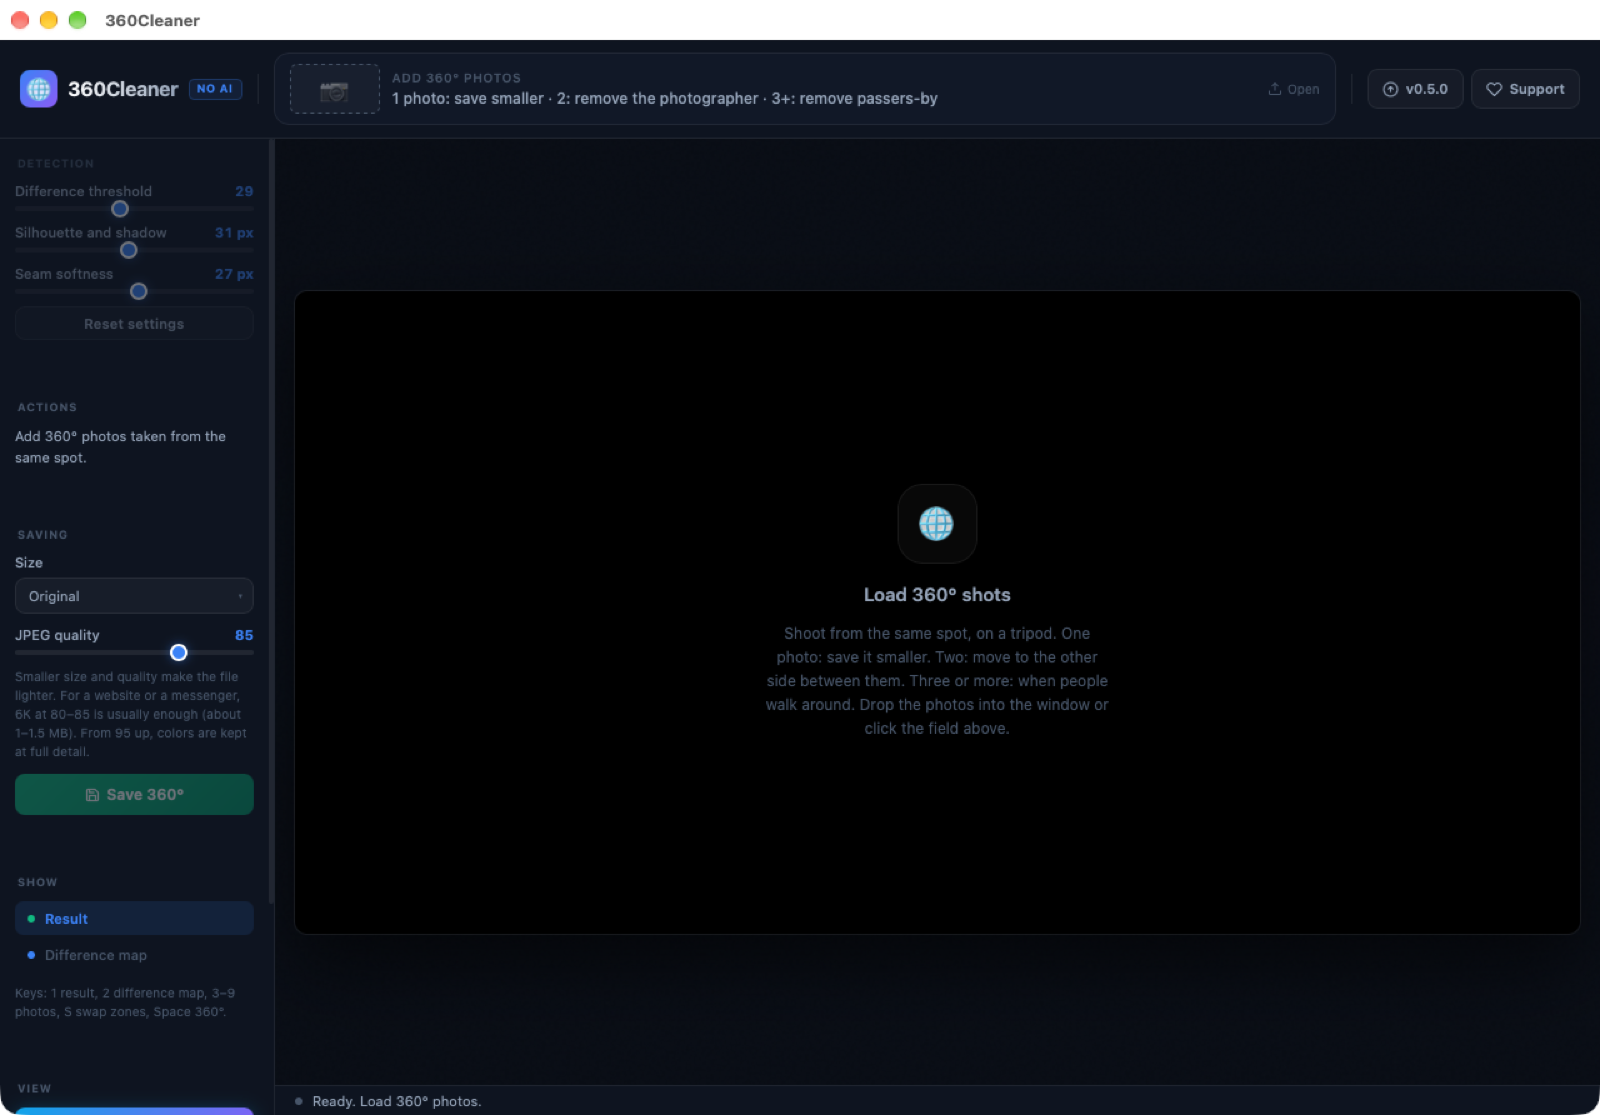
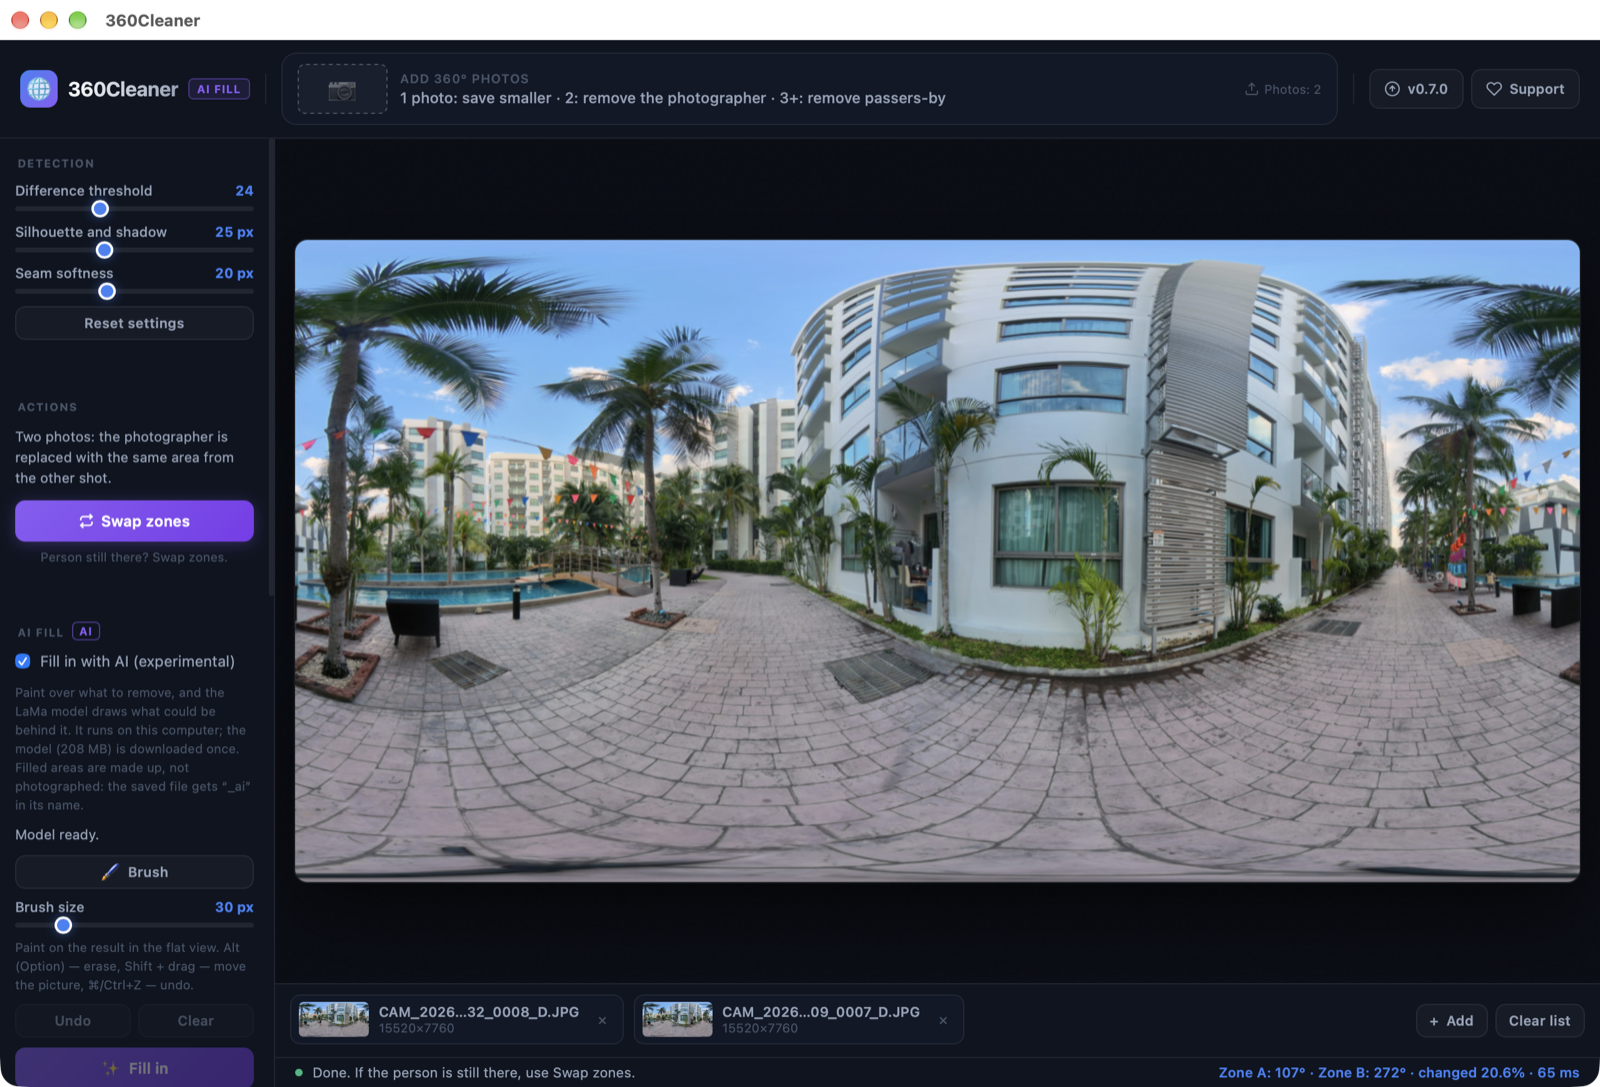
Release 0.7.0
- Version 0.7.0, release notes in English and Russian: AI fill, two photos
  cleaned in one pass more often, macOS 13.4 now required (with a warning not
  to update on an older macOS: the updater can't bring the old copy back when
  the new one simply won't start).
- README (en/ru/th): AI fill for a single photo in the modes table, an AI fill
  step in "How to shoot", a note that AI fill is untested on real Windows, and a
  new window screenshot (v0.7.0, AI fill section).
- CLAUDE.md: the updater limitation.

diff --git a/docs/releases/v0.7.0.md b/docs/releases/v0.7.0.md
@@ -1,0 +1,46 @@
+## What's new
+
+- **⚠ Mac: macOS 13.4 or newer is now required.** On an older macOS don't install this update: the new version
+  won't start, and the old one will already be replaced. Check it in the Apple menu → About This Mac.
+- **AI fill (optional, off by default).** For what the shots can't fix: a single photo, someone standing in the same
+  place on every shot, a tripod leg. Turn on **Fill in with AI** in the new **AI fill** section, paint over what to
+  remove with the **Brush** (key B) and press **Fill in**: the LaMa model draws what could be behind it.
+  It runs on your computer; the model (208 MB) is downloaded once when you turn the mode on. Filled areas are made
+  up, not photographed: they are marked in the window, the saved file gets `_ai` in its name, and the header badge
+  reads "AI fill" instead of "No AI" while the mode is on. A large area (a person right next to the camera) comes
+  out softer than the rest of an 8K panorama.
+- **Two photos: cleaned in one pass more often.** The border between the two zones now keeps clear of people, so
+  nobody is cut in half, and the zones are found from strong differences only, so noise and exposure changes don't
+  move them. If the difference threshold is so low that noise covers the frame, it is raised automatically and the
+  status bar says to what value.
+
+## Что нового
+
+- **⚠ Mac: теперь нужна macOS 13.4 или новее.** На более старой macOS не ставьте это обновление: новая версия не
+  запустится, а старая уже будет заменена. Версию системы видно в меню Apple → «Об этом Mac».
+- **ИИ-дорисовка (по желанию, по умолчанию выключена).** Для того, что кадрами не исправить: фото всего одно,
+  человек стоит на одном месте на всех кадрах, видна нога штатива. Включите «Дорисовывать ИИ» в новом разделе
+  «ИИ-дорисовка», закрасьте **кистью** (клавиша B), что убрать, и нажмите «Дорисовать» — модель LaMa
+  дорисует, что могло быть за ним. Всё считается на вашем компьютере; модель (208 МБ) скачивается один раз при
+  включении режима. Дорисованное — выдумка модели, а не снимок: такие места отмечены в окне, в имени сохранённого
+  файла будет `_ai`, а значок в шапке, пока режим включён, — «AI fill» вместо «No AI». Большое место (человек
+  вплотную к камере) выходит мягче остальной 8K-панорамы.
+- **Два фото: чаще чисто с первого раза.** Граница между зонами теперь обходит людей и не режет человека пополам, а
+  зоны ищутся только по сильным различиям — шум и разница экспозиции их не сдвигают. Если порог различий так низок,
+  что шум покрывает кадр, он поднимается сам, и строка состояния показывает, до какого значения.
+
+## Installation
+
+- Mac: **macOS 13.4 or newer is now required.** Download `360Cleaner-macOS-v0.7.0.dmg` and drag the app to
+  Applications. The `…-macos-arm64.zip` file is for in-app updates. The app isn't signed with an Apple
+  certificate, so macOS blocks the first launch: click **Done**, open **System Settings → Privacy & Security** and click **Open Anyway**.
+- Windows: unzip `360Cleaner-0.7.0-windows-x64.zip` and run `360Cleaner.exe` (SmartScreen: **More info** →
+  **Run anyway**). AI fill hasn't been tried on a real Windows machine yet.
+
+## Установка
+
+- Mac: **теперь нужна macOS 13.4 или новее.** `360Cleaner-macOS-v0.7.0.dmg`, перетащите приложение в «Программы».
+  Файл `…-macos-arm64.zip` — для обновления из программы. Приложение не подписано сертификатом Apple: при первом запуске нажмите «Готово»,
+  откройте «Системные настройки → Конфиденциальность и безопасность» и нажмите «Всё равно открыть».
+- Windows: распакуйте `360Cleaner-0.7.0-windows-x64.zip` и запустите `360Cleaner.exe` (SmartScreen: «Подробнее» →
+  «Выполнить в любом случае»). ИИ-дорисовку в Windows на настоящем компьютере ещё не проверяли.

diff --git a/README.th.md b/README.th.md
@@ -28,7 +28,7 @@
 
 | ภาพ | โหมด | ผลลัพธ์ |
 | :---: | :--- | :--- |
-| **1** | บันทึกใหม่ | ไม่มีอะไรต้องลบ: บันทึกพาโนรามาใหม่ตามขนาดและคุณภาพที่เลือก |
+| **1** | บันทึกใหม่ | ไม่มีอะไรต้องลบ: บันทึกพาโนรามาใหม่ตามขนาดและคุณภาพที่เลือก ถ้าเปิด [AI fill](#-ai-fill-ไม่บังคับ) จะระบายลบช่างภาพออกได้ |
 | **2** | ช่างภาพ | ในสองภาพคุณยืนคนละฝั่ง แต่ละจุดจะนำมาจากภาพที่ไม่มีคุณอยู่ |
 | **3+** | คนเดินผ่าน | สำหรับที่ที่มีคนเยอะ: แต่ละบริเวณจะนำมาจากภาพที่ตรงนั้นไม่มีใคร |
 
@@ -72,7 +72,8 @@
 3. **ลากภาพ** ลงในหน้าต่าง (ทั้งหมดพร้อมกัน) หรือคลิกช่องด้านบน ภาพจะแสดงในรายการด้านล่าง: คลิกเพื่อดูภาพ
    ✕ เพื่อเอาภาพออก **Clear list** เพื่อเอาออกทั้งหมด
 4. กรณีสองภาพ: ถ้ายังเห็นตัวคุณอยู่ ให้กด **Swap zones** (ปุ่ม <kbd>S</kbd>)
-5. เลือก **รูปแบบ** **ขนาด** และ **คุณภาพ** แล้วกด **Save 360°**
+5. ยังเหลือสิ่งที่ไม่มีในภาพใดเลย (มีภาพเดียว หรือเห็นขาตั้งกล้อง)? เปิด [AI fill](#-ai-fill-ไม่บังคับ) แล้วระบายทับ
+6. เลือก **รูปแบบ** **ขนาด** และ **คุณภาพ** แล้วกด **Save 360°**
 
 > [!TIP]
 > ได้ผลดีที่สุดเมื่อระหว่างภาพมีแค่คนที่เปลี่ยนไป: ค่าแสงคงที่ (โหมดแมนนวล) และไม่มีลม
@@ -123,7 +124,7 @@
 
 ทุกอย่างทำงานบนคอมพิวเตอร์ของคุณ ภาพไม่ถูกส่งไปไหน สิ่งที่โมเดลวาดเป็นของที่สร้างขึ้น ไม่ใช่ภาพถ่ายจริง: บริเวณที่วาดเติม
 จะมีเครื่องหมายในหน้าต่าง และชื่อไฟล์ที่บันทึกจะมี `_ai` โมเดลทำงานที่ 512×512 บริเวณใหญ่ (คนที่อยู่ชิดกล้อง)
-จึงคมน้อยกว่าส่วนอื่นของพาโนรามา 8K บริเวณที่กว้างเกินประมาณ 120° จะไม่รับ: ให้ระบายเป็นส่วน ๆ
+จึงคมน้อยกว่าส่วนอื่นของพาโนรามา 8K บริเวณที่กว้างเกินประมาณ 120° จะไม่รับ: ให้ระบายเป็นส่วน ๆ บน Windows ยังไม่เคยทดสอบ AI fill กับเครื่องจริง
 
 ## 🎛 การตั้งค่า
 

diff --git a/README.ru.md b/README.ru.md
@@ -29,7 +29,7 @@
 
 | Фото | Режим | Что получается |
 | :---: | :--- | :--- |
-| **1** | Пересохранение | Убирать нечего: панорама сохраняется заново с выбранными размером и качеством. |
+| **1** | Пересохранение | Убирать нечего: панорама сохраняется заново с выбранными размером и качеством. С [ИИ-дорисовкой](#-ии-дорисовка-по-желанию) можно закрасить и убрать фотографа. |
 | **2** | Фотограф | На двух кадрах вы стоите с разных сторон; каждое место берётся с кадра, где вас нет. |
 | **3+** | Прохожие | Для людных мест: каждое место берётся с кадра, где там никого нет. |
 
@@ -74,7 +74,9 @@
 3. **Перетащите фото** в окно (сразу все) или нажмите на поле вверху. Они появятся в списке внизу: щелчок
    показывает фото, ✕ убирает его, «Очистить список» — все.
 4. Для двух фото: если вы остались на снимке, нажмите «Поменять зоны» (клавиша <kbd>S</kbd>).
-5. Выберите **формат**, **размер** и **качество** и нажмите «Сохранить 360°».
+5. Осталось то, чего нет ни на одном кадре (фото всего одно, видна нога штатива)? Включите
+   [ИИ-дорисовку](#-ии-дорисовка-по-желанию) и закрасьте это.
+6. Выберите **формат**, **размер** и **качество** и нажмите «Сохранить 360°».
 
 > [!TIP]
 > Лучше всего работает, когда между кадрами меняются только люди: одинаковая экспозиция (ручной режим), нет ветра.
@@ -126,7 +128,7 @@
 Всё считается на вашем компьютере, фото никуда не отправляются. Дорисованное — выдумка модели, а не снимок: такие
 места отмечены в окне, а в имени сохранённого файла будет `_ai`. Модель работает с картинкой 512×512, поэтому большое
 место (человек вплотную к камере) выходит мягче остальной 8K-панорамы. Место шире примерно 120° не берётся:
-закрасьте его по частям.
+закрасьте его по частям. В Windows дорисовку на настоящем компьютере ещё не проверяли.
 
 ## 🎛 Параметры
 

diff --git a/README.md b/README.md
@@ -29,7 +29,7 @@ how many photos you add:
 
 | Photos | Mode | What you get |
 | :---: | :--- | :--- |
-| **1** | Re-save | Nothing to remove: the panorama is saved again at the size and quality you pick. |
+| **1** | Re-save | Nothing to remove: the panorama is saved again at the size and quality you pick. With [AI fill](#-ai-fill-optional) on, you can paint the photographer out. |
 | **2** | Photographer | You stand on opposite sides in the two shots; each spot is taken from the shot where you aren't. |
 | **3+** | Passers-by | For crowded places: each area is taken from a shot where nobody is there. |
 
@@ -74,7 +74,9 @@ After that the app updates itself: the version button in the top-right corner, p
 3. **Drop the photos** into the window (all at once), or click the field at the top. They appear in the list at the
    bottom: click one to view it, ✕ removes it, **Clear list** removes all.
 4. With two photos, if you're still in the picture, press **Swap zones** (key <kbd>S</kbd>).
-5. Pick the **format**, **size** and **quality**, then **Save 360°**.
+5. Something left that no shot shows (a single photo, a tripod leg)? Turn on [AI fill](#-ai-fill-optional) and
+   paint over it.
+6. Pick the **format**, **size** and **quality**, then **Save 360°**.
 
 > [!TIP]
 > It works best when nothing changes between shots except people: fixed exposure (manual mode), no wind.
@@ -126,7 +128,7 @@ tripod leg. Paint over it and the [LaMa](https://github.com/advimman/lama) model
 Everything runs on your computer; photos aren't sent anywhere. What the model paints is made up, not photographed:
 filled areas are marked in the window, and the saved file gets `_ai` in its name. The model works at 512×512, so a
 large area (a person right next to the camera) comes out softer than the rest of an 8K panorama. An area wider than
-about 120° is refused: paint it in parts.
+about 120° is refused: paint it in parts. On Windows AI fill hasn't been tried on a real machine yet.
 
 ## 🎛 Settings
 

diff --git a/CLAUDE.md b/CLAUDE.md
@@ -65,6 +65,9 @@ Rust (edition 2024) + tao 0.37 / wry 0.57 (системный WebView: WKWebView
   140° центр сжат, человек вплотную к камере занимал 120 точек из 512, и заливка шла «кубиками».
 - ONNX Runtime собран под macOS 13.4: `.cargo/config.toml` ставит `MACOSX_DEPLOYMENT_TARGET`, в Info.plist —
   `LSMinimumSystemVersion` 13.4. Тесты в `--release` без `libclang_rt.osx.a` (подключает `build.rs`) не линкуются.
+  Обновление из программы старую копию возвращает, только если не удалось заменить файлы; если новая версия просто
+  не запускается (старая macOS), старой уже нет — поэтому подъём минимальной версии системы — предупреждение в
+  заметках к релизу (их видно в окне обновления до установки).
 - Проверка на настоящей модели: `CLEANER360_LAMA=lama_fp32.onnx cargo test --release -- --ignored --nocapture
   lama_runs` (и `lama_photo` для своего фото).
 - Удалённые Python-версии (PySide6 / OpenCV) лежат в истории git до коммита cd6040a, не возвращай их.
